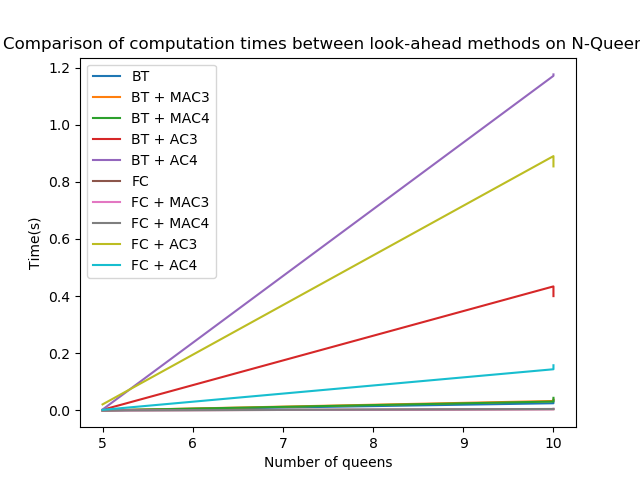
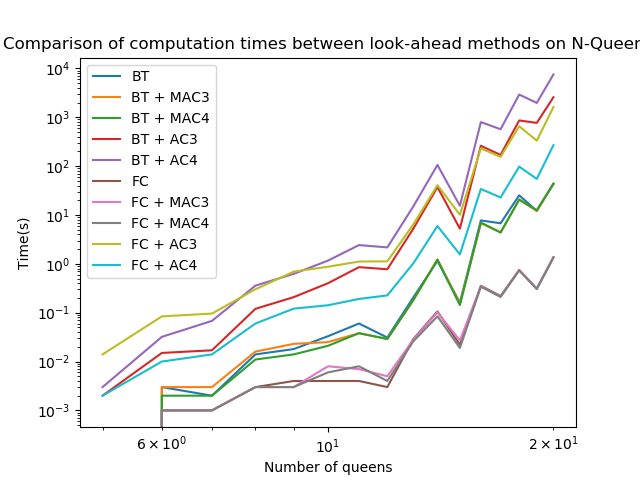
conflits

diff --git a/src/n_queens.py b/src/n_queens.py
@@ -7,6 +7,8 @@ def constr_nqueens(x: int, y: int, a: int, b: int):
     # return (a != b) and (abs(x - y) != abs(a - b))
     return abs(x - y) != abs(a - b)
 
+def verification(assignment: list):
+    pass
 
 def display_sol_nqueens(csp: CSP, N: int):
     """ Display the solution information of n-Queens problem solved by CSP solver. """
@@ -81,7 +83,7 @@ def benchmarking():
             t = []
             n = []
 
-            for N in [ *list(range(5, 15, 5)), *range(10, 50, 500) ]: #TODO : à corriger
+            for N in [ *range(5, 20), *range(20, 50, 500) ]: #TODO : à corriger(pour l'instant petits instances)
                exploredNodes, exploreTime, isFeasible = solve_nqueens(N, [compo1, compo2])
                if isFeasible:
                     sizes.append(N)
@@ -92,6 +94,8 @@ def benchmarking():
             usedTimes[method] = t
             nodes[method] = n
     
+    plt.xscale("log")
+    plt.yscale("log")
     # generate picture times
     for method in instances.keys():
         plt.plot(instances[method], usedTimes[method], label = method)
@@ -106,7 +110,7 @@ def benchmarking():
     for method in instances.keys():
         plt.plot(instances[method], nodes[method], label = method)
 
-    plt.legend()
+    #plt.legend()
     plt.title("Comparison of explored nodes between look-ahead methods on N-Queens")
     plt.xlabel("Number of queens")
     plt.ylabel("Number of nodes explored")

diff --git a/src/arc_consistency.py b/src/arc_consistency.py
@@ -1,5 +1,3 @@
-from typing import Counter
-from Constraint import ConstraintBinary
 
 
 def ac3(csp, level=0):
